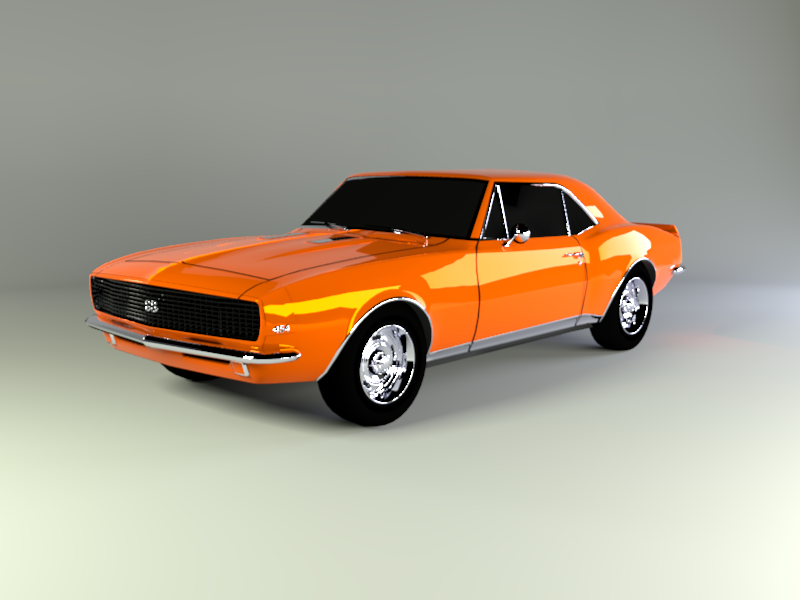
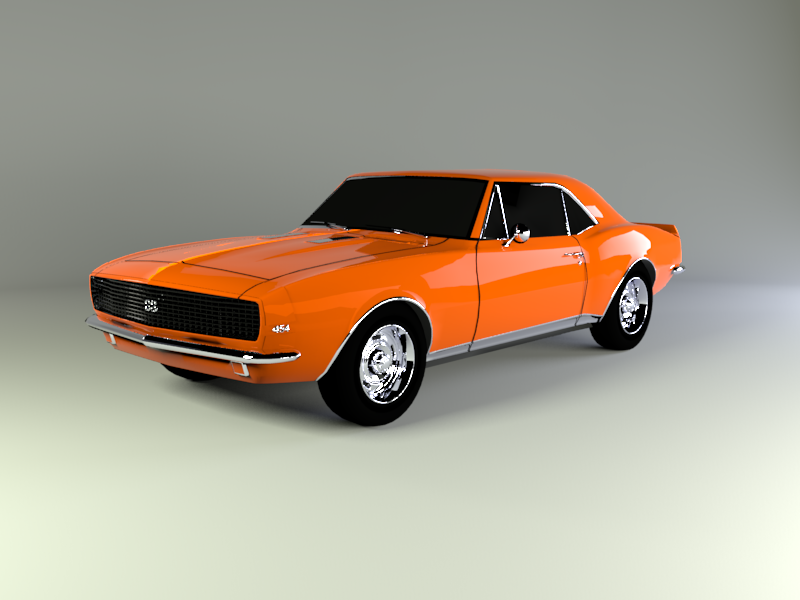
Material updates. Final render for camaro, fuck it...

diff --git a/templates/default/deploy/camaro.html b/templates/default/deploy/camaro.html
@@ -73,7 +73,7 @@
 
           var body,chrome,darkchrome,glass,tire,interior,black,lines,scale;
 
-          body        = new THREEFLOW.ShinyMaterial( {color: 0xff6600, reflection: 0.3} );
+          body        = new THREEFLOW.ShinyMaterial( {color: 0xff6600, reflection: 0.01} );
           darkchrome  = new THREEFLOW.MirrorMaterial( {color: 0x252525} );
           chrome      = new THREEFLOW.MirrorMaterial( {color: 0xefefff} );
           lines       = new THREEFLOW.DiffuseMaterial( {color: 0x131313} );
@@ -85,7 +85,7 @@
           // Gives warning "BCKT   error : Inf shading sample!" and artifacts appear on render. :(
           // IPR preview works OK.
 
-          glass = new THREEFLOW.DiffuseMaterial( {color: 0x121212, opacity: 0.25, transparent: true, side:THREE.DoubleSide } );
+          glass = new THREEFLOW.DiffuseMaterial( {color: 0x121212, opacity: 0.25,  transparent: true, side:THREE.DoubleSide } );
           //glass = new THREEFLOW.GlassMaterial( {color: 0xaaaaaa, opacity: 0.25, transparent: true, side:THREE.DoubleSide } );
 
           // body,wheels,grill,door lines,windshield,interior,tire,tireling,behind grill

diff --git a/build/threeflow.js b/build/threeflow.js
@@ -1889,15 +1889,6 @@
       if (params == null) {
         params = {};
       }
-      if (params.reflection === void 0 && params.color === void 0) {
-        params.color = 0xffffff;
-      } else if (params.reflection === void 0) {
-        params.color = params.color;
-      } else if (params.color === void 0) {
-        params.color = params.reflection;
-      } else {
-        params.color = 0xffffff;
-      }
       THREE.MeshPhongMaterial.call(this);
       this.setValues(params);
       this.reflection = this.color;
@@ -1981,6 +1972,7 @@
       this.backdropMaterial = params.backdropMaterial;
       this.createBackdrop(params.backdropWall, params.backdropFloor, params.backdropCurve, params.backdropCurveSteps, params.backdropMaterial);
       this.ambient = new THREE.AmbientLight(0x252525);
+      this.ambient._tf_noIndex = true;
       this.add(this.ambient);
       this._keyRadiance = 5.5;
       this.lights = [

diff --git a/templates/default/deploy/js/threeflow.js b/templates/default/deploy/js/threeflow.js
@@ -1889,15 +1889,6 @@
       if (params == null) {
         params = {};
       }
-      if (params.reflection === void 0 && params.color === void 0) {
-        params.color = 0xffffff;
-      } else if (params.reflection === void 0) {
-        params.color = params.color;
-      } else if (params.color === void 0) {
-        params.color = params.reflection;
-      } else {
-        params.color = 0xffffff;
-      }
       THREE.MeshPhongMaterial.call(this);
       this.setValues(params);
       this.reflection = this.color;
@@ -1981,6 +1972,7 @@
       this.backdropMaterial = params.backdropMaterial;
       this.createBackdrop(params.backdropWall, params.backdropFloor, params.backdropCurve, params.backdropCurveSteps, params.backdropMaterial);
       this.ambient = new THREE.AmbientLight(0x252525);
+      this.ambient._tf_noIndex = true;
       this.add(this.ambient);
       this._keyRadiance = 5.5;
       this.lights = [

diff --git a/templates/default/deploy/index.html b/templates/default/deploy/index.html
@@ -19,6 +19,7 @@
     height:100%;
     top:70px;
     padding:0px;
+    margin:0px;
     z-index:200;
 
     box-sizing: border-box; -moz-box-sizing: border-box; -webkit-box-sizing: border-box;
